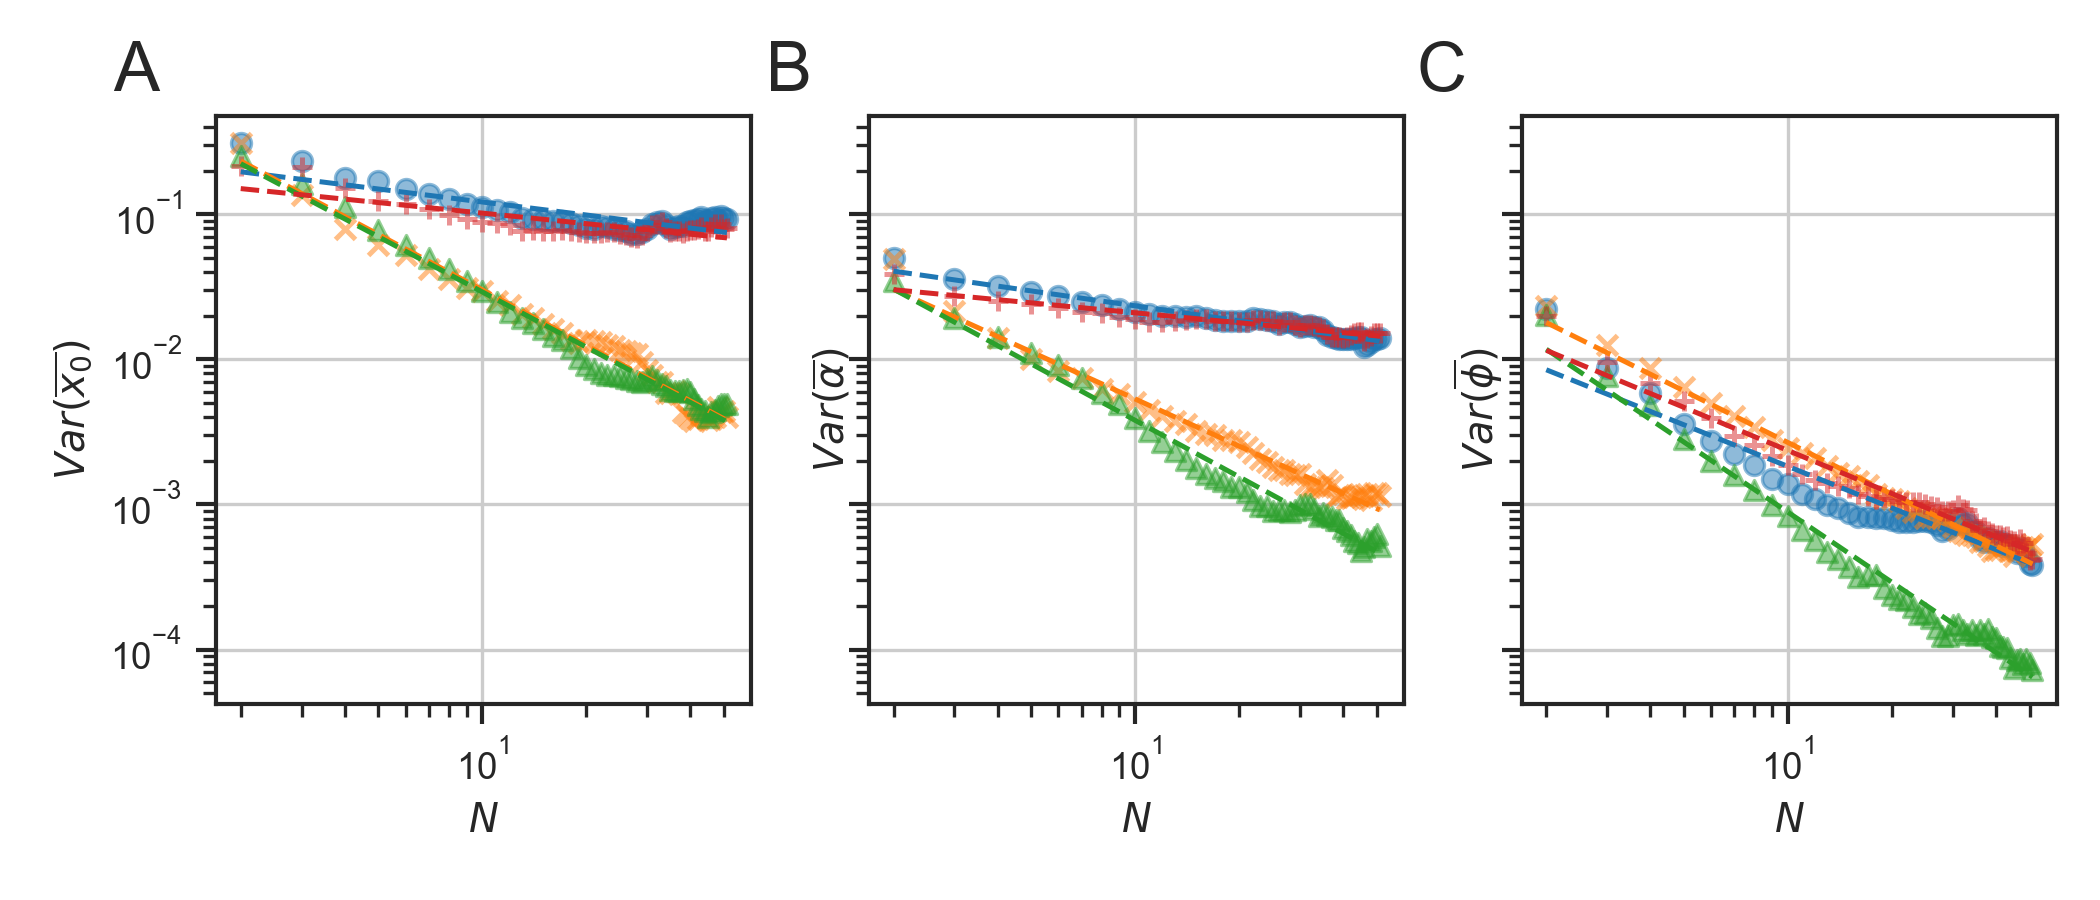
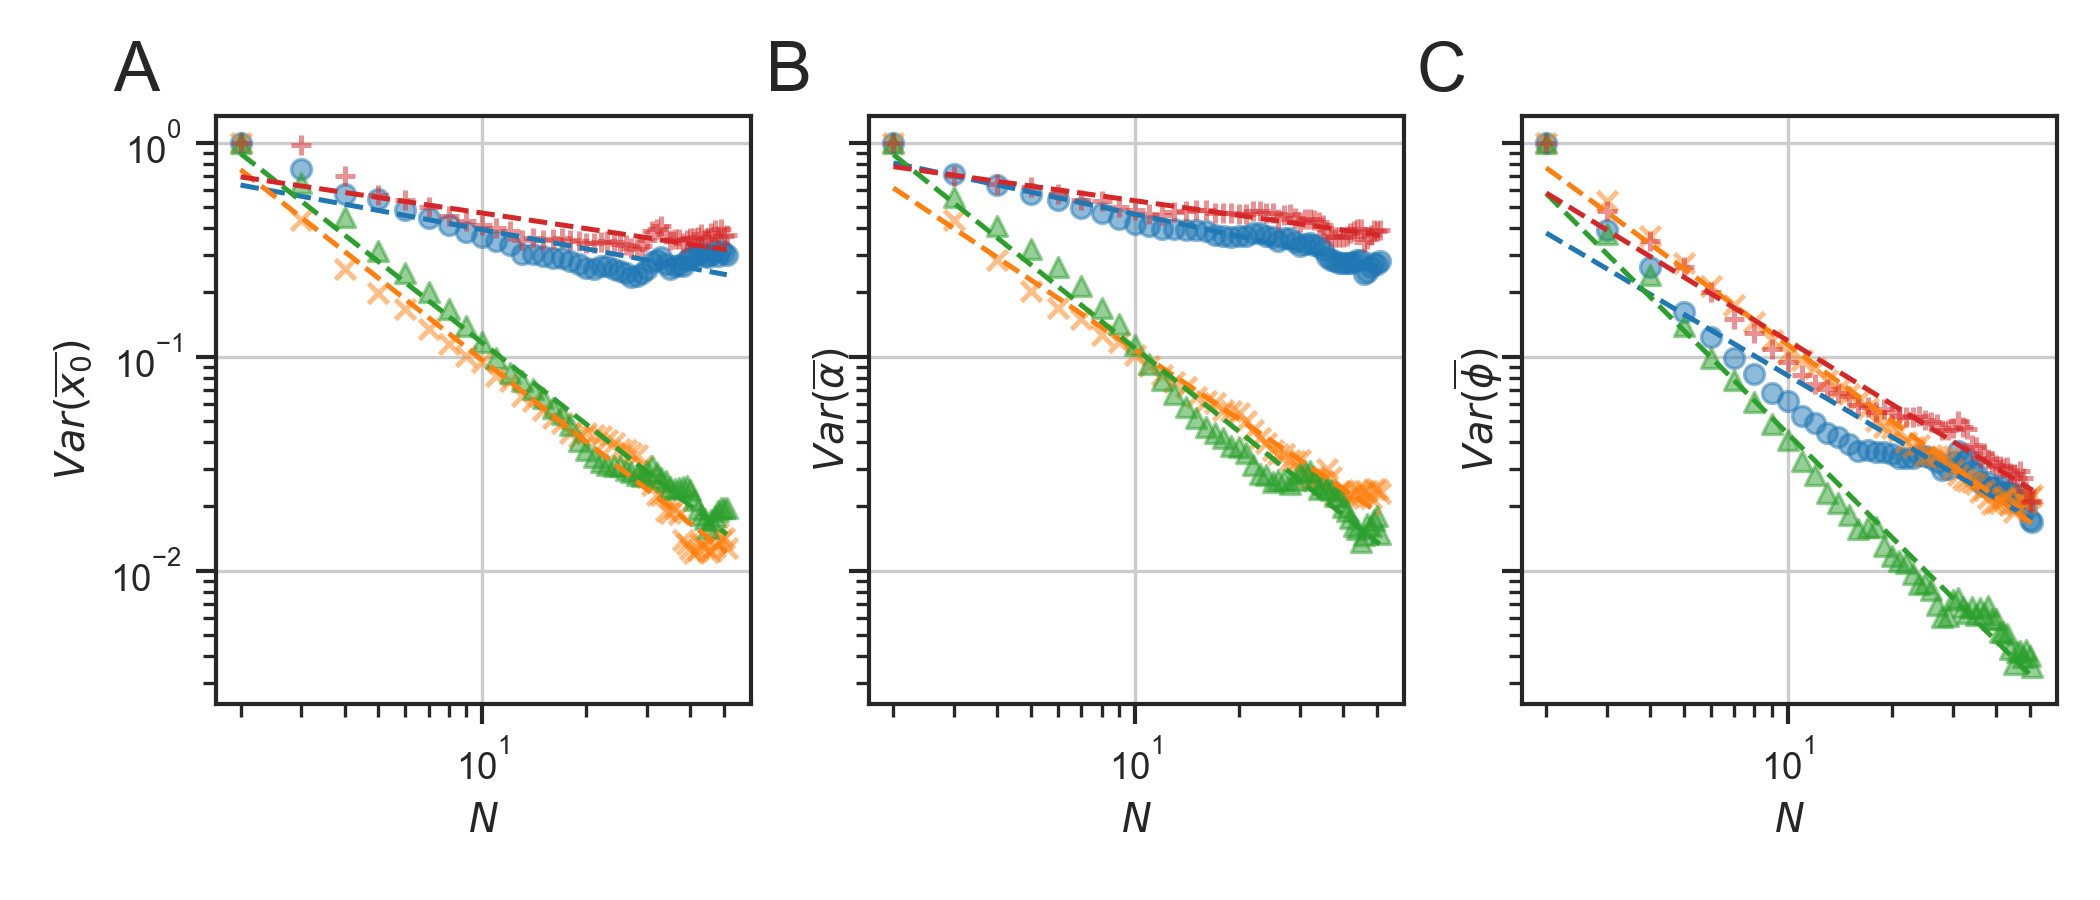
First Git

diff --git a/Plotting/figure2.py b/Plotting/figure2.py
@@ -4,7 +4,7 @@ import sys
 
 sys.path.append(r'/Users/alestawsky/PycharmProjects/Thesis')
 import os
-from CustomFuncsAndVars.global_variables import phenotypic_variables, symbols, create_folder
+from CustomFuncsAndVars.global_variables import phenotypic_variables, symbols, create_folder, seaborn_preamble
 import pandas as pd
 import matplotlib.pyplot as plt
 import numpy as np
@@ -18,8 +18,6 @@ import argparse
 
 
 def slope_comparisons():
-    # import the labeled measured bacteria in physical units
-    cv_df = pd.read_csv('{}/variation_of_cumulative_time_averages.csv'.format(args.data_location))
     
     # This is where we will keep the regression phenotypic_variables
     slope_df = pd.DataFrame(columns=['Trace', 'Shuffled', 'Population', 'Trace-Centered'])
@@ -34,7 +32,10 @@ def slope_comparisons():
         for label, marker in zip(slope_df.columns, ['o', 'x', '^', '+']):
             
             # the variance and generations of the TAs of this type of lineage
-            dist = cv_df[(cv_df['param'] == param) & (cv_df['label'] == label)].sort_values('generation')
+            dist = variation_of_cumulative_time_averages[(variation_of_cumulative_time_averages['param'] == param) & (variation_of_cumulative_time_averages['label'] == label)].sort_values('generation')
+            
+            # So each kind of lineage starts at the 1 and keeps their slope
+            dist['var'] = dist['var'] / dist[dist['generation'] == 1]['var'].values
             
             # We get the best fit line
             lin_reg = LinearRegression(fit_intercept=True).fit(np.array(np.log(dist['generation'] + 1)).reshape(-1, 1), np.array(np.log(dist['var'])).reshape(-1, 1))
@@ -48,8 +49,7 @@ def slope_comparisons():
         slope_df = slope_df.append(pd.DataFrame(to_add_slope, index=[symbols['time_averages'][param]]))
     
     # set a style on seaborn module
-    sns.set_context('paper')
-    sns.set_style('ticks', {'axes.grid': True})
+    seaborn_preamble()
 
     fig, ax = plt.subplots(figsize=[7, 3.5])
 
@@ -76,15 +76,12 @@ def slope_comparisons():
 
 
 def variance_timeaverage_per_generation():
-    # import the labeled measured bacteria in physical units
-    cv_df = pd.read_csv('{}/variation_of_cumulative_time_averages.csv'.format(args.data_location))
     
     # The cycle phenotypic_variables we will look at
     highlights = ['length_birth', 'growth_rate', 'fold_growth']
     
     # set a style on seaborn module
-    sns.set_context('paper')
-    sns.set_style('ticks', {'axes.grid': True})
+    seaborn_preamble()
     
     # create the figure and construct the layout of the figure
     fig, axes = plt.subplots(nrows=1, ncols=len(highlights), sharey=True, figsize=[7, 3])
@@ -98,7 +95,10 @@ def variance_timeaverage_per_generation():
         for label, marker in zip(['Trace', 'Population', 'Trace-Centered', 'Shuffled'], ['o', 'x', '^', '+']):
             
             # the variance and generations of the TAs of this type of lineage
-            dist = cv_df[(cv_df['param'] == param) & (cv_df['label'] == label)].sort_values('generation')
+            dist = variation_of_cumulative_time_averages[(variation_of_cumulative_time_averages['param'] == param) & (variation_of_cumulative_time_averages['label'] == label)].sort_values('generation')
+            
+            # So each kind of lineage starts at the 1 and keeps their slope
+            dist['var'] = dist['var'] / dist[dist['generation'] == 1]['var'].values
             
             # We get the best fit line
             lin_reg = LinearRegression(fit_intercept=True).fit(np.array(np.log(dist['generation'] + 1)).reshape(-1, 1), np.array(np.log(dist['var'])).reshape(-1, 1))
@@ -117,7 +117,7 @@ def variance_timeaverage_per_generation():
         ax.set(xscale="log", yscale="log")
         # ax.tick_params(direction='out')
         ax.set_xlabel(r'$N$')
-        ax.set_ylabel(r'$Var(${}$)$'.format(symbols['time_averages'][param]))
+        ax.set_ylabel(r'$Var(${}$)$'.format(symbols['time_averages'][param], symbols['physical_units'][param]))
         # ax.set_ylim([low_bound, high_bound])
         # ax.set_xlim(left=0)
 
@@ -141,6 +141,10 @@ args = parser.parse_args()
 
 
 create_folder(args.data_location)
+
+
+# import the labeled measured bacteria in physical units
+variation_of_cumulative_time_averages = pd.read_csv('{}/variation_of_cumulative_time_averages.csv'.format(args.data_location))
     
 # phenotypic_variables, symbols, args
 variance_timeaverage_per_generation()
